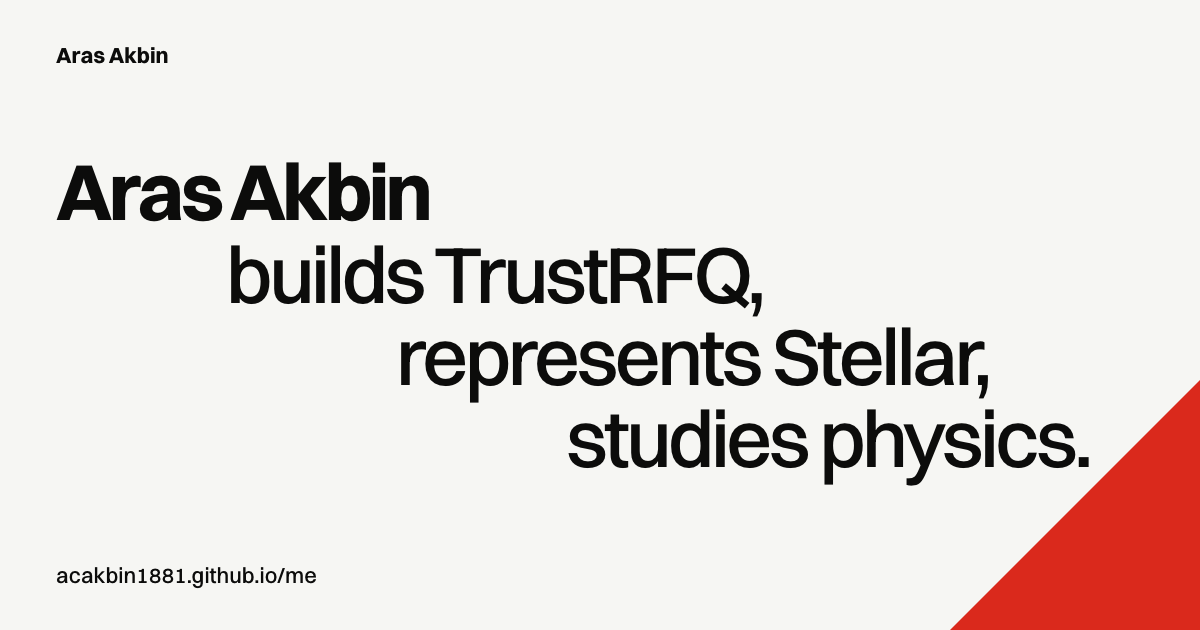
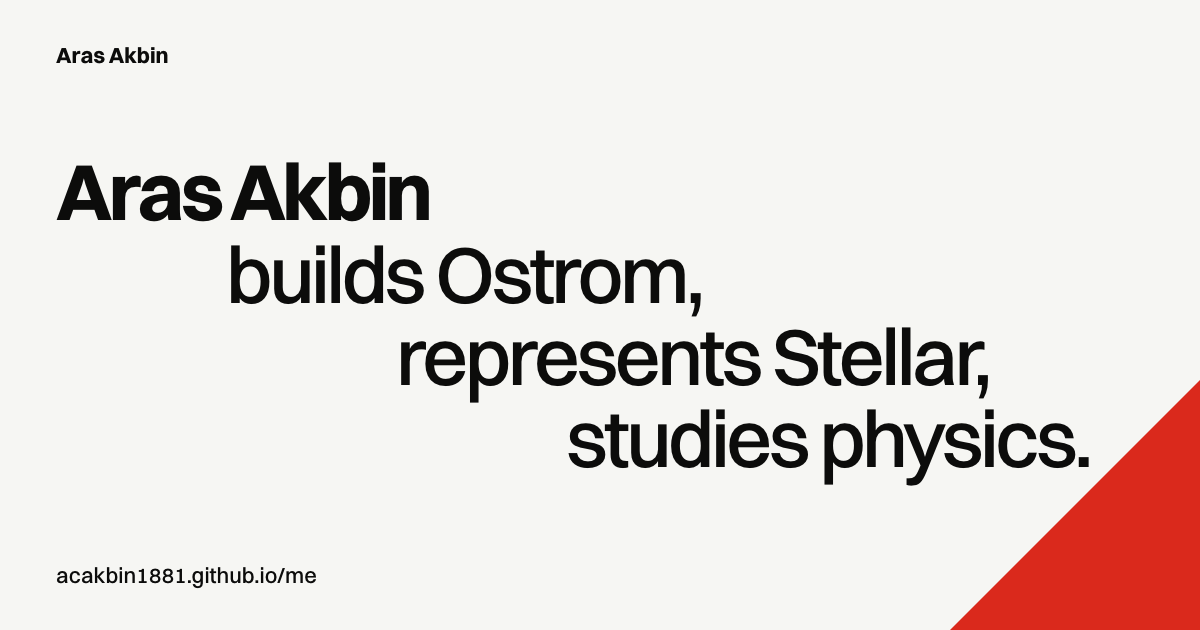
feat: rename TrustRFQ to Ostrom
The company is now called Ostrom. Renames it in the hero, About, the
flagship section (anchor #ostrom), experience, SEO description, the demo
video file and the link-preview image. Website and GitHub links still
point at the old addresses until the new ones exist.

Also drops the "And never turns down a rematch" hero line.

Changed region(s): [[0.3392, 0.3921, 0.6475, 0.5127]]

diff --git a/src/data/draft.ts b/src/data/draft.ts
@@ -44,14 +44,14 @@ export const draft = {
   hero: {
     status: 'fact' as Status,
     /** The lines under the name, in Aras's words. */
-    lines: ['Builds, reads, lifts', 'And never turns down a rematch'],
-    roles: ['Founder, TrustRFQ', 'Stellar Ambassador'],
+    lines: ['Builds, reads, lifts'],
+    roles: ['Founder, Ostrom', 'Stellar Ambassador'],
     photo: {
       file: 'hero-golden-gate.jpg',
       alt: 'Aras Akbin, eyes closed and arms crossed, sitting by the water in front of the Golden Gate Bridge.',
       caption: 'San Francisco.',
     },
-    note: 'Satırlar senden. İsim en büyük boyda, altındaki iki satır daha küçük; ekran daraldıkça hepsi birlikte küçülüyor. Satır sonuna nokta koymadım, senin yazdığın gibi bıraktım. “Signed, then settled.” satırı TrustRFQ’ya özgü olduğu için kaldırıldı. Fotoğraf senden; alt yazı yalnızca “San Francisco.”',
+    note: 'Satırlar senden. İsim en büyük boyda, altındaki satır daha küçük; ekran daraldıkça hepsi birlikte küçülüyor. Satır sonuna nokta koymadım, senin yazdığın gibi bıraktım. “Signed, then settled.” satırı Ostrom’a özgü olduğu için kaldırıldı. Fotoğraf senden; alt yazı yalnızca “San Francisco.”',
   },
 
   about: {
@@ -59,7 +59,7 @@ export const draft = {
     title: 'About',
     paragraphs: [
       'At 18 I walked out of Turkey’s top technical university and flew to San Francisco with $4,000. In that city, that is two months of rent and not much else.',
-      'So I made coffee for a living and built a company with the hours that were left. The coffee paid for the runway. The company is TrustRFQ.',
+      'So I made coffee for a living and built a company with the hours that were left. The coffee paid for the runway. The company is Ostrom.',
       'Before any of that I spent four years fencing, three at a table tennis table and one under a barbell. Three sports with nothing in common except a score. That is where I learned to go looking for the stronger opponent.',
       'The rest I got from books: physics, philosophy, politics, sociology, history. I read across subjects on purpose, because the answer to a problem in one field is usually sitting in another.',
       'These days I work from wherever I am, travelling alone and building as I go. In 2027 I start university in the United States. I never stopped learning. I just took school out of order.',
@@ -116,7 +116,7 @@ export const draft = {
     kickerStatus: 'proposal' as Status,
     kickerNote: 'Bölüm adı için önerim “Now building”: tek projen olduğunu değil, şu an üzerinde çalıştığın ana iş olduğunu söylüyor. “Highlighted project” bir portfolyo şablonu gibi duruyor. Diğer seçenekler: “Main work”, “Flagship”, “Featured project”.',
 
-    name: 'TrustRFQ',
+    name: 'Ostrom',
 
     /** One line, in Aras's words. */
     line: 'The first request-for-quote protocol built on Stellar.',
@@ -131,11 +131,11 @@ export const draft = {
 
     /** Screen recording of the desk, on the right of the section. Lives in public/media/. */
     demo: {
-      src: '/media/trustrfq-demo.mp4',
-      label: 'A 30-second screen recording of TrustRFQ: a quote for 620,000 XLM and the trading desk',
-      caption: 'TrustRFQ in 30 seconds, on Testnet.',
+      src: '/media/ostrom-demo.mp4',
+      label: 'A 30-second screen recording of Ostrom: a quote for 620,000 XLM and the trading desk',
+      caption: 'Ostrom in 30 seconds, on Testnet.',
       status: 'fact' as Status,
-      note: 'Video senden: 30 saniye, 1920×1080. Sessiz ve döngüde, ekrana girince kendiliğinden başlıyor, çıkınca duruyor; böylece aşağı inmeyen ziyaretçi 12,7 MB’ı hiç indirmiyor. “Hareketi azalt” ayarı açık olanlarda başlamıyor, kontrollerle kendileri oynatabiliyor. Videoda arayüzün yanında tanıtım sayfası da göründüğü için alt yazıyı “desk” yerine “TrustRFQ in 30 seconds” yaptım.',
+      note: 'Video senden: 30 saniye, 1920×1080. Sessiz ve döngüde, ekrana girince kendiliğinden başlıyor, çıkınca duruyor; böylece aşağı inmeyen ziyaretçi 12,7 MB’ı hiç indirmiyor. “Hareketi azalt” ayarı açık olanlarda başlamıyor, kontrollerle kendileri oynatabiliyor. Videoda arayüzün yanında tanıtım sayfası da göründüğü için alt yazıyı “desk” yerine “Ostrom in 30 seconds” yaptım.',
     },
     /** The funding line under the figures, with the two buttons beside it. */
     grant: { value: '$15K', label: 'SCF Instaward', by: 'Stellar Community Fund Instawards' },
@@ -147,7 +147,7 @@ export const draft = {
     note: 'Senin isteğinle çıkanlar: üç rakam kutusu ve “A settled trade” kartı. Adım adım akış ve kontrat ayrıntıları da bu bölümde yok.',
   },
 
-  /** Second highlighted project, under TrustRFQ, with the same shape. */
+  /** Second highlighted project, under Ostrom, with the same shape. */
   carp: {
     kicker: 'Built at ETH Oxford',
     name: 'CARP',
@@ -194,6 +194,6 @@ export const draft = {
     /** Under the 2027 row: the course Aras is taking now. */
     bootcamp: { when: 'Now', who: 'Europe Coding School', what: 'Data Science & Artificial Intelligence (15 weeks)', href: 'https://europecodingschool.com/egitimler/veri-bilimi-yapay-zeka-egitimi/' },
     nextStatus: 'proposal' as Status,
-    note: 'profile.ts’ten geliyor. TrustRFQ başlangıcı boş; ilk commit 10 Haziran 2026 olduğu için “Jun 2026” öneriyorum. De Anza satırı senin isteğinle hem taslaktan hem canlı siteden (profile.ts) çıktı. Bootcamp’i de “Now” olarak ikinci satıra ekledim; başlangıç ayını yazarsan “Sep 2026 to Now” gibi gösteririz. En üstte 2027 satırı var: SAT’e hazırlandığını ve 2027’de ABD’de üniversiteye başlayacağını söylüyor, About’taki 2027 cümlesiyle de örtüşüyor.',
+    note: 'profile.ts’ten geliyor. Ostrom başlangıcı boş; ilk commit 10 Haziran 2026 olduğu için “Jun 2026” öneriyorum. De Anza satırı senin isteğinle hem taslaktan hem canlı siteden (profile.ts) çıktı. Bootcamp’i de “Now” olarak ikinci satıra ekledim; başlangıç ayını yazarsan “Sep 2026 to Now” gibi gösteririz. En üstte 2027 satırı var: SAT’e hazırlandığını ve 2027’de ABD’de üniversiteye başlayacağını söylüyor, About’taki 2027 cümlesiyle de örtüşüyor.',
   },
 };

diff --git a/src/data/profile.ts b/src/data/profile.ts
@@ -70,15 +70,15 @@ export interface Profile {
 
 export const profile: Profile = {
   name: 'Aras Akbin',
-  headline: 'Stellar Ambassador · Founder, TrustRFQ',
+  headline: 'Stellar Ambassador · Founder, Ostrom',
   location: 'San Francisco Bay Area',
   description:
-    'Aras Akbin, Stellar Ambassador and founder of TrustRFQ, based in the San Francisco Bay Area.',
-  work: ['builds TrustRFQ,', 'represents Stellar,', 'studies physics.'],
+    'Aras Akbin, Stellar Ambassador and founder of Ostrom, based in the San Francisco Bay Area.',
+  work: ['builds Ostrom,', 'represents Stellar,', 'studies physics.'],
   life: ['also trains,', 'cooks,', 'speaks on stage.'],
   experience: [
-    // TODO(aras): add the TrustRFQ start date (e.g. 'Mar 2026').
-    { role: 'Founder', org: 'TrustRFQ', end: 'Present' },
+    // TODO(aras): add the Ostrom start date (e.g. 'Mar 2026').
+    { role: 'Founder', org: 'Ostrom', end: 'Present' },
     {
       role: 'Global Strategy & Partnerships Advisor',
       org: 'Upvera',

diff --git a/tests/profile.test.ts b/tests/profile.test.ts
@@ -16,8 +16,8 @@ test('every role has a title, an organization and an end date', () => {
   }
 });
 
-test('TrustRFQ is listed (the headline role belongs in Experience)', () => {
-  assert.ok(profile.experience.some((r) => r.org === 'TrustRFQ'));
+test('Ostrom is listed (the headline role belongs in Experience)', () => {
+  assert.ok(profile.experience.some((r) => r.org === 'Ostrom'));
 });
 
 test('every education entry is complete', () => {

diff --git a/tests/site.test.ts b/tests/site.test.ts
@@ -9,7 +9,7 @@ const html = readFileSync(new URL('../dist/index.html', import.meta.url), 'utf8'
 const text = (s: string) => s.replace(/<[^>]+>/g, ' ').replace(/\s+/g, ' ').trim();
 
 // --- Structure ---
-const sections = ['about', 'trustrfq', 'carp', 'built', 'record', 'contact'];
+const sections = ['about', 'ostrom', 'carp', 'built', 'record', 'contact'];
 
 test('page is English', () => {
   assert.match(html, /<html lang="en"/);

diff --git a/scripts/og.html b/scripts/og.html
@@ -51,7 +51,7 @@
   <p class="top">Aras Akbin</p>
   <h1>
     <span style="--i:0">Aras Akbin</span>
-    <span style="--i:1">builds TrustRFQ,</span>
+    <span style="--i:1">builds Ostrom,</span>
     <span style="--i:2">represents Stellar,</span>
     <span style="--i:3">studies physics.</span>
   </h1>

diff --git a/README.md b/README.md
@@ -71,5 +71,5 @@ gelince silinecek.
 
 ## Yapılacaklar
 
-- [ ] TrustRFQ başlangıç tarihi → `src/data/profile.ts` içindeki `TODO(aras)`
+- [ ] Ostrom başlangıç tarihi → `src/data/profile.ts` içindeki `TODO(aras)`
 - [ ] Gerçek fotoğraflar, bölüm notları ve altyazılar → `chapters` üstündeki `TODO(aras)`
